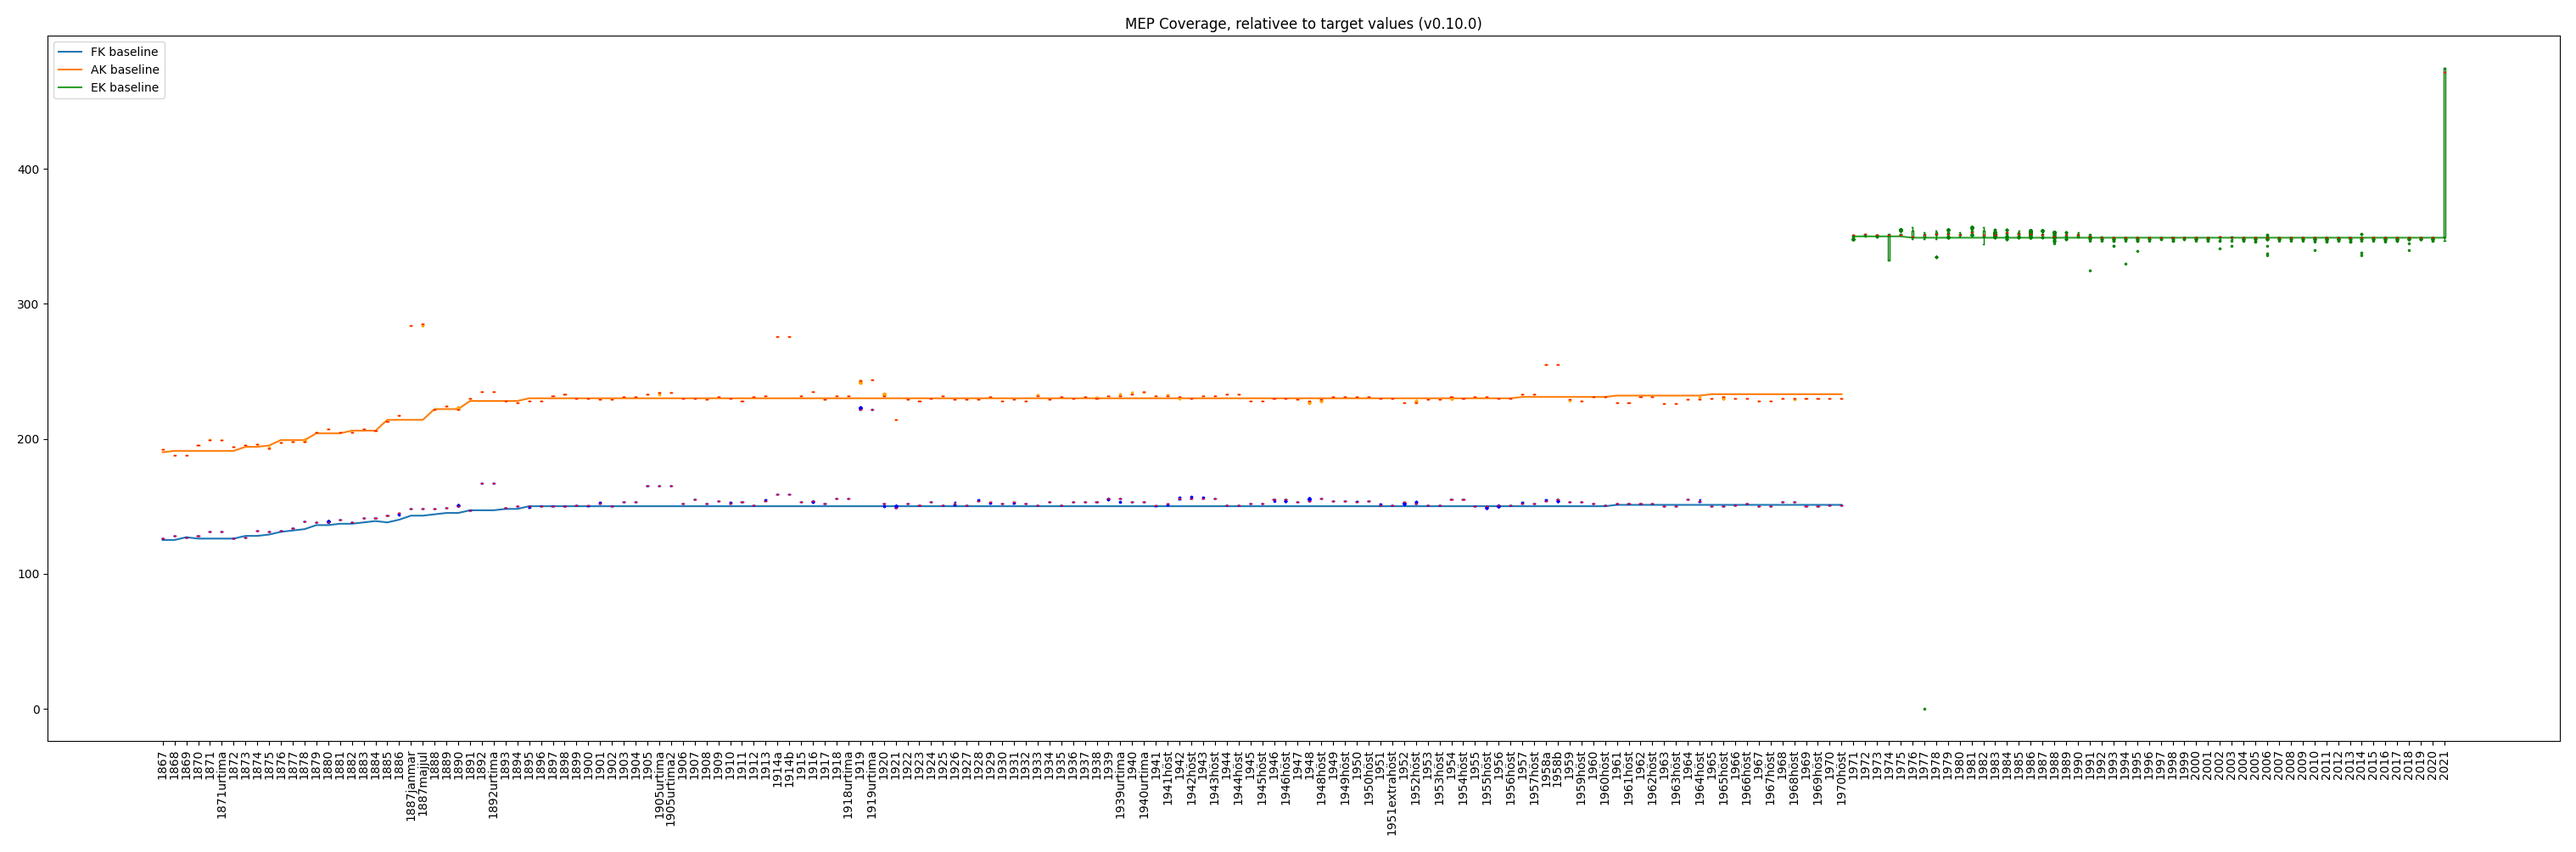
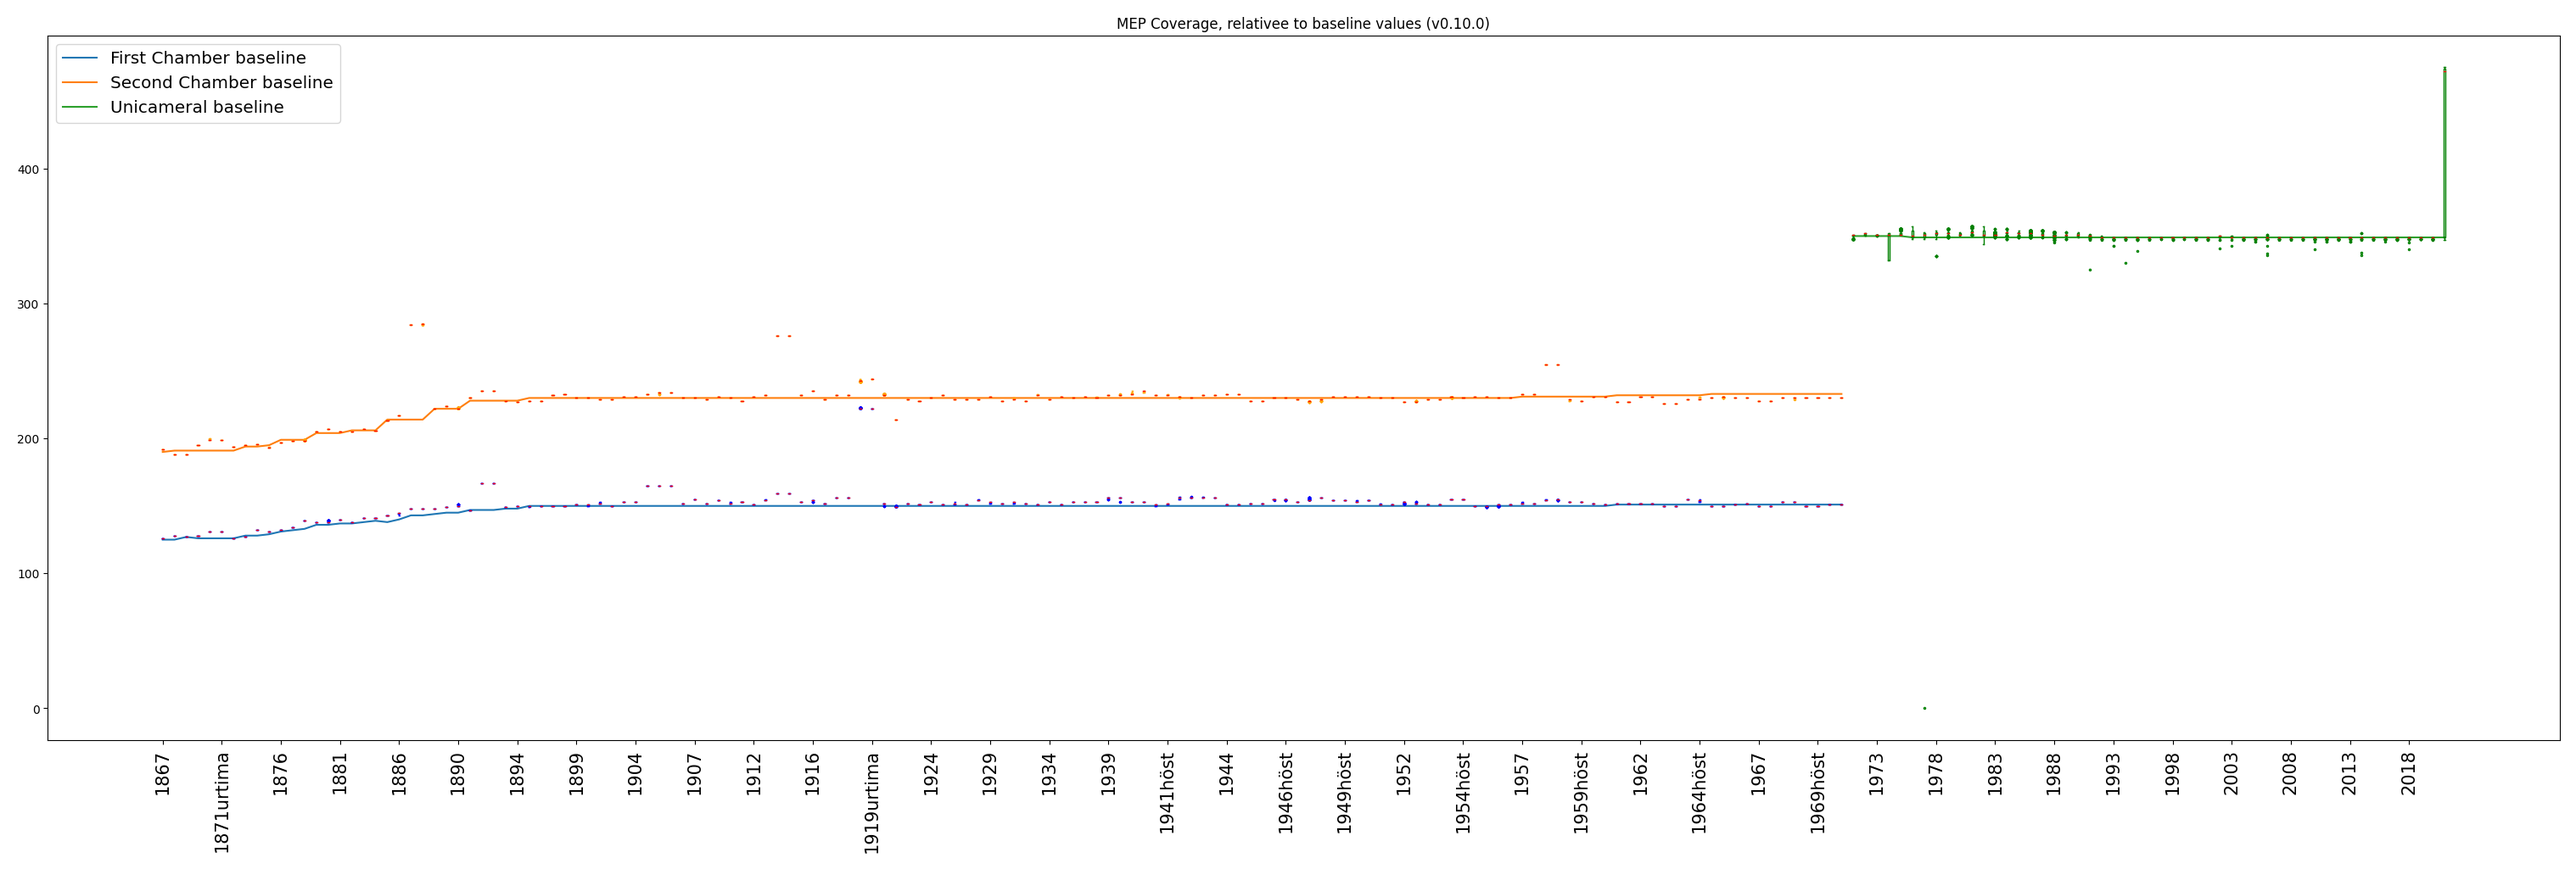
fix:make plot more readable

diff --git a/scripts/stats-dashboard/plot-mp-coverage.py b/scripts/stats-dashboard/plot-mp-coverage.py
@@ -21,7 +21,7 @@ def main(args):
     plt.figure(figsize=(38.20, 10.80))
 
     fk = df.loc[df["chamber"] == "fk"]
-    plt.plot(fk['parliament_year'], fk['baseline_N'], label = "FK baseline")
+    plt.plot(fk['parliament_year'], fk['baseline_N'], label = "First Chamber baseline")
     for ix, y in enumerate(fk['parliament_year'].unique()):
         col = "blue"
         plt.boxplot(fk.loc[fk['parliament_year'] == y, "N_MP"].tolist(), positions=[ix],
@@ -36,7 +36,7 @@ def main(args):
 
 
     ak = df.loc[df["chamber"] == "ak"]
-    plt.plot(ak['parliament_year'], ak['baseline_N'], label = "AK baseline")
+    plt.plot(ak['parliament_year'], ak['baseline_N'], label = "Second Chamber baseline")
     c = 0
     for ix, y in enumerate(ak['parliament_year'].unique()):
         c += 1
@@ -52,7 +52,7 @@ def main(args):
 
 
     ek = df.loc[df["chamber"] == "ek"]
-    plt.plot(ek['parliament_year'], ek['baseline_N'], label = "EK baseline")
+    plt.plot(ek['parliament_year'], ek['baseline_N'], label = "Unicameral baseline")
     for ix, y in enumerate(ek['parliament_year'].unique(), start = c):
         col = "green"
         plt.boxplot(ek.loc[ek['parliament_year'] == y, "N_MP"].tolist(), positions=[ix],
@@ -64,9 +64,10 @@ def main(args):
             medianprops=dict(color="red")
         )
 
-    plt.title(f"MEP Coverage, relativee to target values ({args.version})")
-    plt.legend()
-    plt.xticks(rotation=90)
+    plt.title(f"MEP Coverage, relativee to baseline values ({args.version})")
+    plt.legend(fontsize="x-large")
+    plt.xticks(range(0, len(year), 5), year[::5], rotation = 90, fontsize=15)
+    #plt.xticks(rotation=90)
     plt.savefig(f"{here}/figures/mp-coverage/mp-coverage.png",
         dpi=100,
         bbox_inches='tight',
